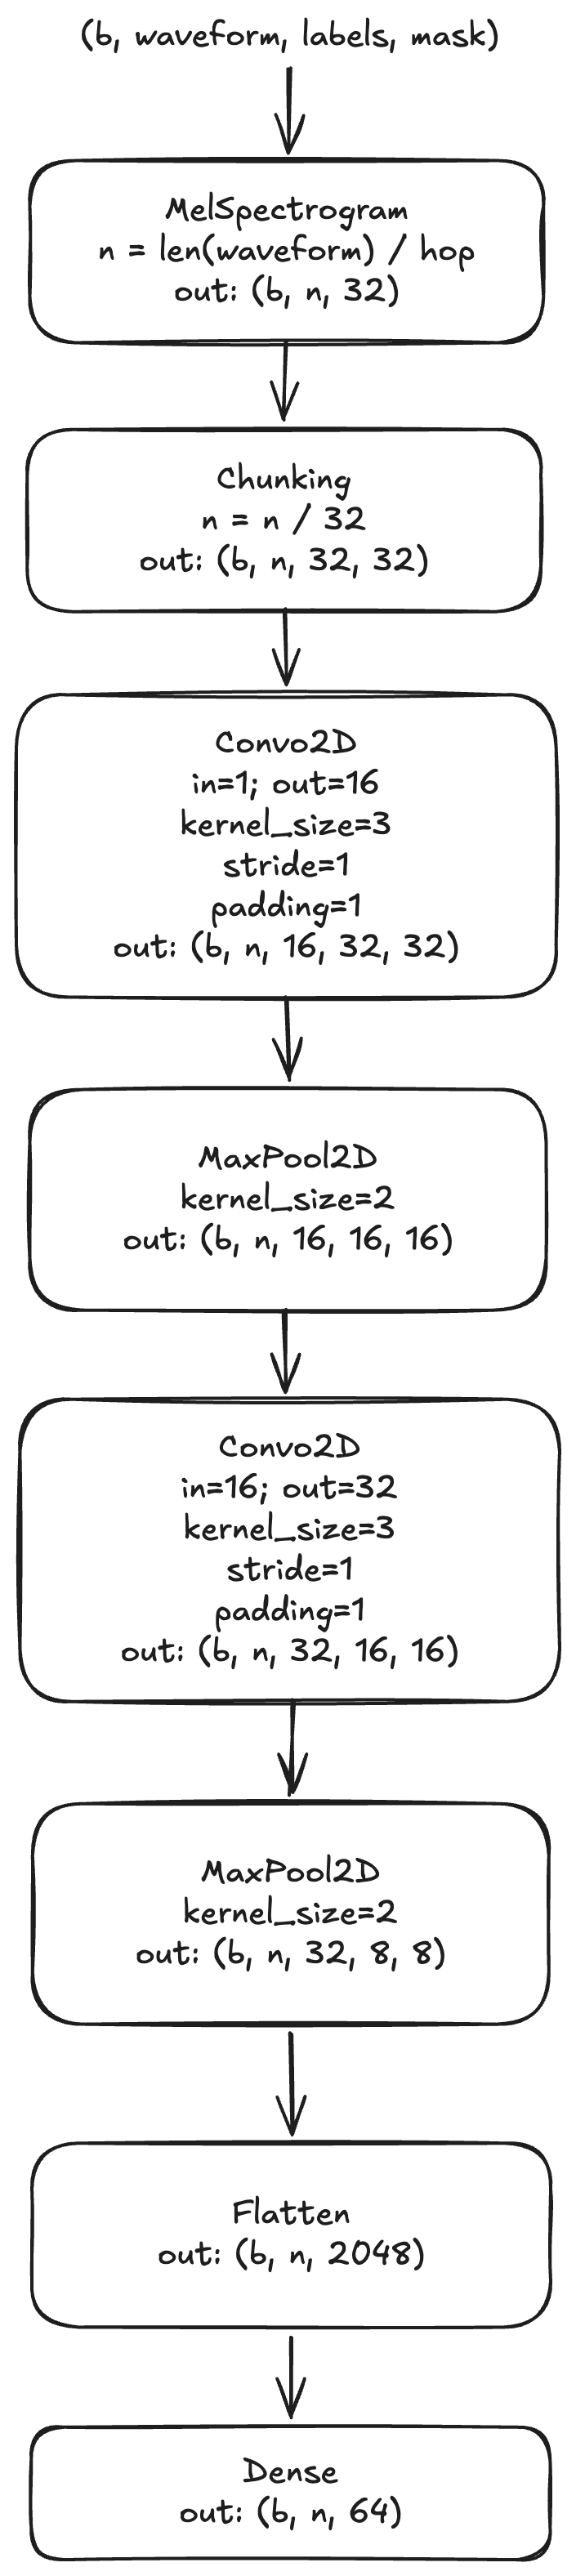
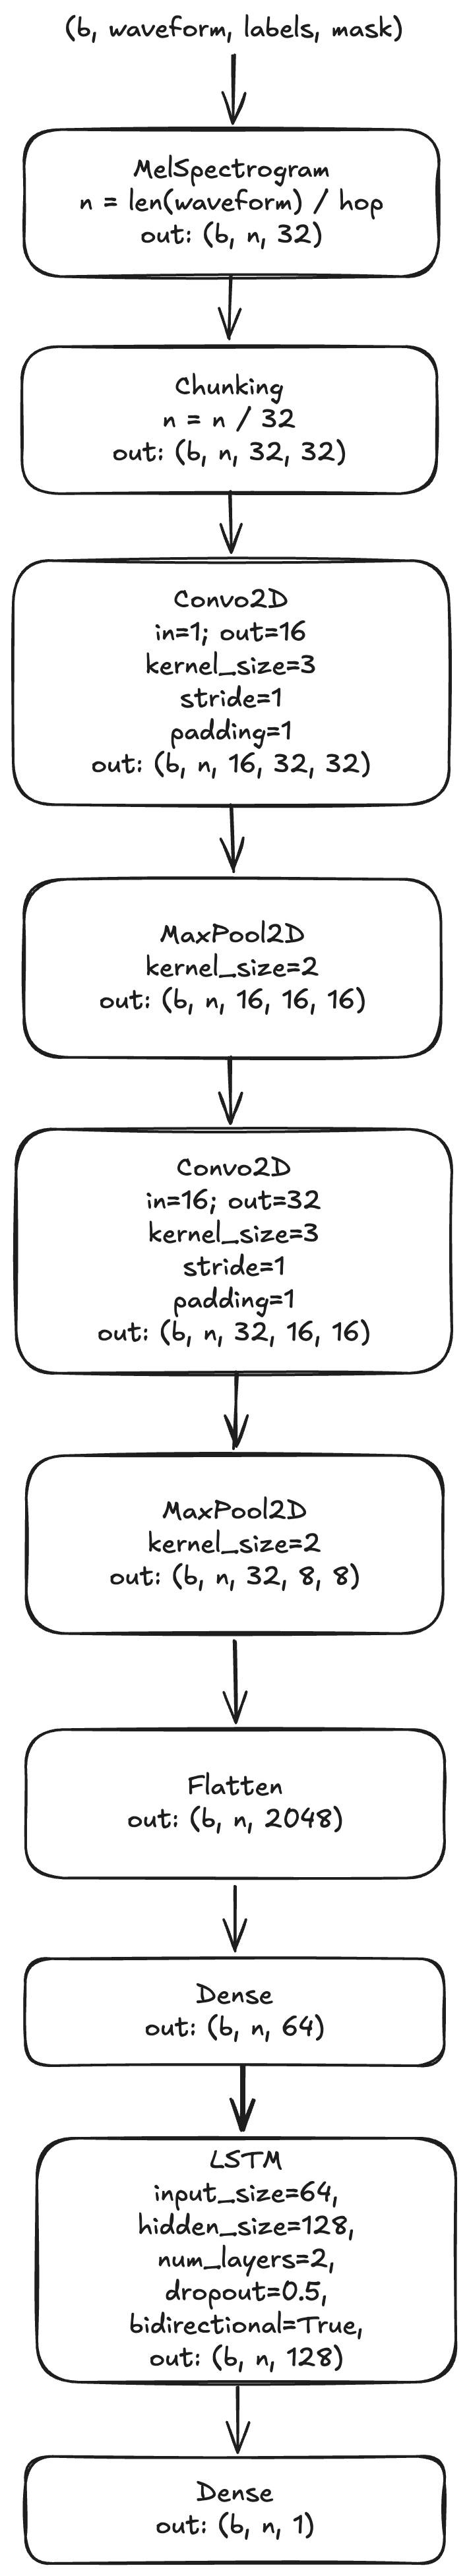
readme update

diff --git a/src/train.py b/src/train.py
@@ -88,22 +88,37 @@ def evaluate_segmentator(model, x, loss, metrics, opt=None, i=0, device="cpu"):
 
 def plot_history(history):
   xs = range(1, len(history["train_loss"]) + 1)
-  fig, (ax1, ax2, ax3) = plt.subplots(1, 3, figsize=(12, 4))
+  fig, ax = plt.subplots(2, 3, figsize=(12, 4))
 
-  ax1.plot(xs, history["train_loss"], marker="o", label="train")
-  ax1.plot(xs, history["test_loss"],  marker="o", label="test")
-  ax1.set(title="Loss", xlabel="epoch", ylabel="loss")
-  ax1.legend()
+  ax[0, 0].plot(xs, history["train_loss"], marker="o", label="train")
+  ax[0, 0].plot(xs, history["test_loss"],  marker="o", label="test")
+  ax[0, 0].set(title="Loss", xlabel="epoch", ylabel="loss")
+  ax[0, 0].legend()
 
-  ax2.plot(xs, history["train_acc"], marker="o", label="train")
-  ax2.plot(xs, history["test_acc"],  marker="o", label="test")
-  ax2.set(title="Accuracy", xlabel="epoch", ylabel="accuracy")
-  ax2.legend()
+  ax[0, 1].plot(xs, history["train_acc"], marker="o", label="train")
+  ax[0, 1].plot(xs, history["test_acc"],  marker="o", label="test")
+  ax[0, 1].set(title="Accuracy", xlabel="epoch", ylabel="accuracy")
+  ax[0, 1].legend()
 
-  ax3.plot(xs, history["train_spec"], marker="o", label="train")
-  ax3.plot(xs, history["test_spec"],  marker="o", label="test")
-  ax3.set(title="Specificity", xlabel="epoch", ylabel="specificity")
-  ax3.legend()
+  ax[0, 2].plot(xs, history["train_spec"], marker="o", label="train")
+  ax[0, 2].plot(xs, history["test_spec"],  marker="o", label="test")
+  ax[0, 2].set(title="Specificity", xlabel="epoch", ylabel="specificity")
+  ax[0, 2].legend()
+
+  ax[1, 0].plot(xs, history["train_rec"], marker="o", label="train")
+  ax[1, 0].plot(xs, history["test_rec"],  marker="o", label="test")
+  ax[1, 0].set(title="Recall", xlabel="epoch", ylabel="recall")
+  ax[1, 0].legend()
+
+  ax[1, 1].plot(xs, history["train_prec"], marker="o", label="train")
+  ax[1, 1].plot(xs, history["test_prec"],  marker="o", label="test")
+  ax[1, 1].set(title="Precision", xlabel="epoch", ylabel="precision")
+  ax[1, 1].legend()
+
+  ax[1, 2].plot(xs, history["train_f1"], marker="o", label="train")
+  ax[1, 2].plot(xs, history["test_f1"],  marker="o", label="test")
+  ax[1, 2].set(title="F1 Score", xlabel="epoch", ylabel="F1 score")
+  ax[1, 2].legend()
 
   fig.tight_layout()
   return fig
@@ -141,6 +156,12 @@ def train_vad(
     "test_acc": [],
     "train_spec": [],
     "test_spec": [],
+    "train_rec": [],
+    "test_rec": [],
+    "train_prec": [],
+    "test_prec": [],
+    "train_f1": [],
+    "test_f1": [],
   }
 
   for epoch in range(epochs):
@@ -154,6 +175,9 @@ def train_vad(
     history["train_loss"].append(epoch_loss / len(dataloader_dev))
     history["train_acc"].append(train_stats["acc"].item())
     history["train_spec"].append(train_stats["spec"].item())
+    history["train_rec"].append(train_stats["R"].item())
+    history["train_prec"].append(train_stats["P"].item())
+    history["train_f1"].append(train_stats["F1"].item())
     print(f"train | {fmt_metrics(train_stats)}")
     train_metrics.reset()
 
@@ -168,6 +192,9 @@ def train_vad(
     history["test_loss"].append(epoch_loss / len(dataloader_test))
     history["test_acc"].append(test_stats["acc"].item())
     history["test_spec"].append(test_stats["spec"].item())
+    history["test_rec"].append(test_stats["R"].item())
+    history["test_prec"].append(test_stats["P"].item())
+    history["test_f1"].append(test_stats["F1"].item())
     print(f"test  | {fmt_metrics(test_stats)}")
     test_metrics.reset()
 
@@ -206,6 +233,12 @@ def train_segmentator(
     "test_acc": [],
     "train_spec": [],
     "test_spec": [],
+    "train_rec": [],
+    "test_rec": [],
+    "train_prec": [],
+    "test_prec": [],
+    "train_f1": [],
+    "test_f1": [],
   }
 
   for epoch in range(epochs):
@@ -219,6 +252,9 @@ def train_segmentator(
     history["train_loss"].append(epoch_loss / len(dataloader_dev))
     history["train_acc"].append(train_stats["acc"].item())
     history["train_spec"].append(train_stats["spec"].item())
+    history["train_rec"].append(train_stats["R"].item())
+    history["train_prec"].append(train_stats["P"].item())
+    history["train_f1"].append(train_stats["F1"].item())
     print(f"train | {fmt_metrics(train_stats)}")
     train_metrics.reset()
 
@@ -233,6 +269,9 @@ def train_segmentator(
     history["test_loss"].append(epoch_loss / len(dataloader_test))
     history["test_acc"].append(test_stats["acc"].item())
     history["test_spec"].append(test_stats["spec"].item())
+    history["test_rec"].append(test_stats["R"].item())
+    history["test_prec"].append(test_stats["P"].item())
+    history["test_f1"].append(test_stats["F1"].item())
     print(f"test  | {fmt_metrics(test_stats)}")
     test_metrics.reset()
 

diff --git a/src/models.py b/src/models.py
@@ -188,7 +188,7 @@ class Segmentator(nn.Module):
     if K < kmax:
         labels = torch.cat([labels, labels.new_zeros(B, W, T, kmax - K)], dim=3)
         K = kmax
-    present = labels.sum(dim=2).int()
+    present = labels.any(dim=2).int()
     _, order = torch.sort(present, dim=-1, descending=True, stable=True)
     idx = order[:, :, None, :kmax].expand(-1, -1, T, -1)
     return torch.gather(labels, 3, idx)

diff --git a/README.md b/README.md
@@ -4,7 +4,7 @@ HF_TOKE is required for pyannote step and vox_celeb download
 
 ## Pyannote-Based
 
-env file - `pyannote-environment.yml`  
+env file - `pyannote-environment.yml`
 notebook - `lab2-pyannote.ipynb`
 
 most of the workflow is based on the [tutorial](https://github.com/pyannote/pyannote-audio/blob/develop/tutorials/training_a_model.ipynb)
@@ -20,3 +20,53 @@ tutorial's DDEG was using float16 data type that caused overflow on the inferenc
 | finetuned (1 epoch)   | 10.8%  |
 
 ## Custom
+
+### Voice Audio Detection Model
+
+We chose Wilkinson's hybrid CNN-BiLSTM model [1] for the basis of our voice activity detector (VAD):
+
+![](img/vad_wilkinson.png)
+
+We tried different hyperparameters and training time. Also we used the simplified model (without LSTM, the dense layer after flatten is the classifier).
+
+One of the problems that we encountered was that the input data were homogeneous - most of the samples were preprocessed to include little to no silence. This made some versions of the model to degrade quickly to just predicting everything as speech. To mitigate this problem, we used weighted BCE metric. With estimated ratio of speech to silence in the dataset around 0.93, this way we penalized silence miss-identification.
+
+A baseline CNN model metrics:
+
+![](img/vad_metrics_cnn.png)
+
+Untuned CNN+LSTM model performed similarly, and in terms of specificity (ability to identify negatives - in our case, silence) even worse:
+
+![](img/vad_metrics_5_epoch.png)
+
+The final model was allowed to run for 7 epochs and perfomed better:
+
+![](img/vad_metrics.png)
+
+We ended up with 2 stacked LSTM layers with dropout 0.5 and internal size 128. The implementation can be found in class [`VoiceActivityDetector`](src/models.py).
+
+During training we formed the batches in a way to minimize paddings. We used voxconverse data and dev-test splits. We did not use data augmentations due to time constraints. Probably, noising images and deleting some speech regions or inserting artificial silence regions would improve specificity even further.
+
+## Segmentation Model
+
+We decided to use the same backbone as for binary VAD with permutation invariant BCE loss calculation as in [2]. We changed the sample windowing/chunking strategy to match the Bredin paper. Instead of doing non-overlapped chunking as in the previous model, we used 5s-windows with step of 500ms.
+
+The main architectural difference was the absence of flatten->dense layers preceeding the head and a bigger size of the LSTM model (internal size 512).
+
+We limited the maximum number of speakers per window at $K_{max}=3$. These speakers were chosen arbitrarily, as the first 3 non-silent speakers. The model then returns for each window a probability that one of the 3 speakers is talking at a given timestamp (samples grouped by 10ms). This probably is a limitation of the model as there are files in the dataset that include over 20 speakers. While not all of them speak simultaneously, there can be situations when the model should be able to ignore one speaker as silence during one window and correctly predict them during the other.
+
+The model did not finish training yet (maybe I'll publish results in another branch) but here are the data from the last 5 batches:
+
+||||||||
+|-----------|--------------|----------|-----|----|------|------|
+|  batch 119 | loss 0.1838 | acc 0.950 | P 0.562 | R 0.540 | F1 0.550 | spec 0.874 |
+  batch 120 | loss 0.2463 | acc 0.911 | P 0.247 | R 0.333 | F1 0.284 | spec 0.678
+  batch 121 | loss 0.2890 | acc 0.911 | P 0.573 | R 0.529 | F1 0.549 | spec 0.874
+  batch 122 | loss 0.1748 | acc 0.952 | P 0.551 | R 0.594 | F1 0.571 | spec 0.861
+  batch 123 | loss 0.2483 | acc 0.930 | P 0.836 | R 0.877 | F1 0.854 | spec 0.930
+
+
+# References
+
+1. N. Wilkinson and T. Niesler, "A Hybrid CNN-BiLSTM Voice Activity Detector," 2021, doi: https://arxiv.org/abs/2103.03529
+2. H. Bredin and A. Laurent, “End-To-End Speaker Segmentation for Overlap-Aware Resegmentation,” HAL (Le Centre pour la Communication Scientifique Directe), Aug. 2021, doi: https://doi.org/10.21437/interspeech.2021-560.